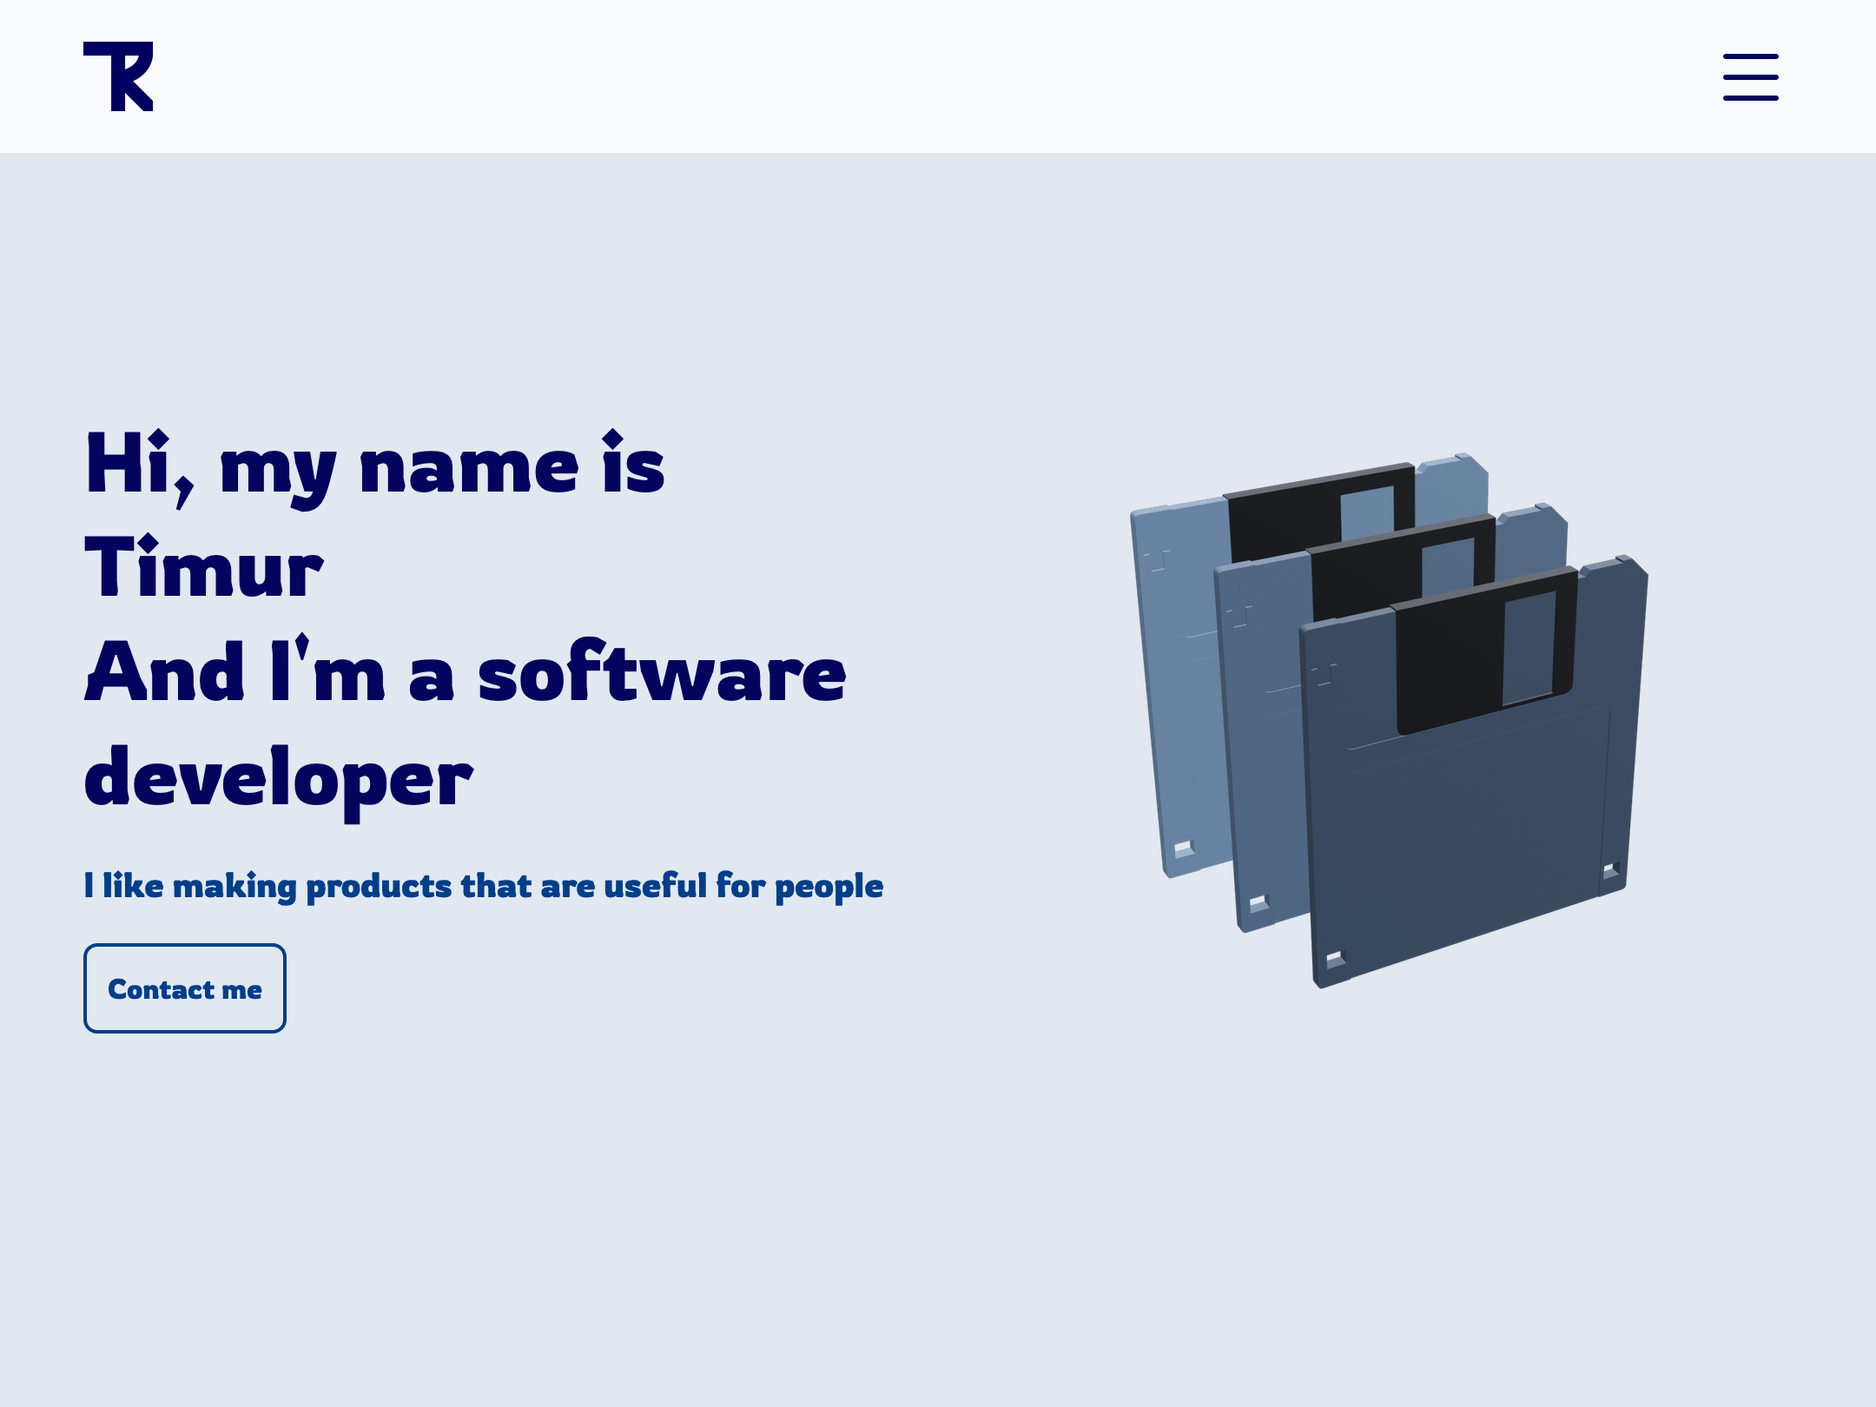
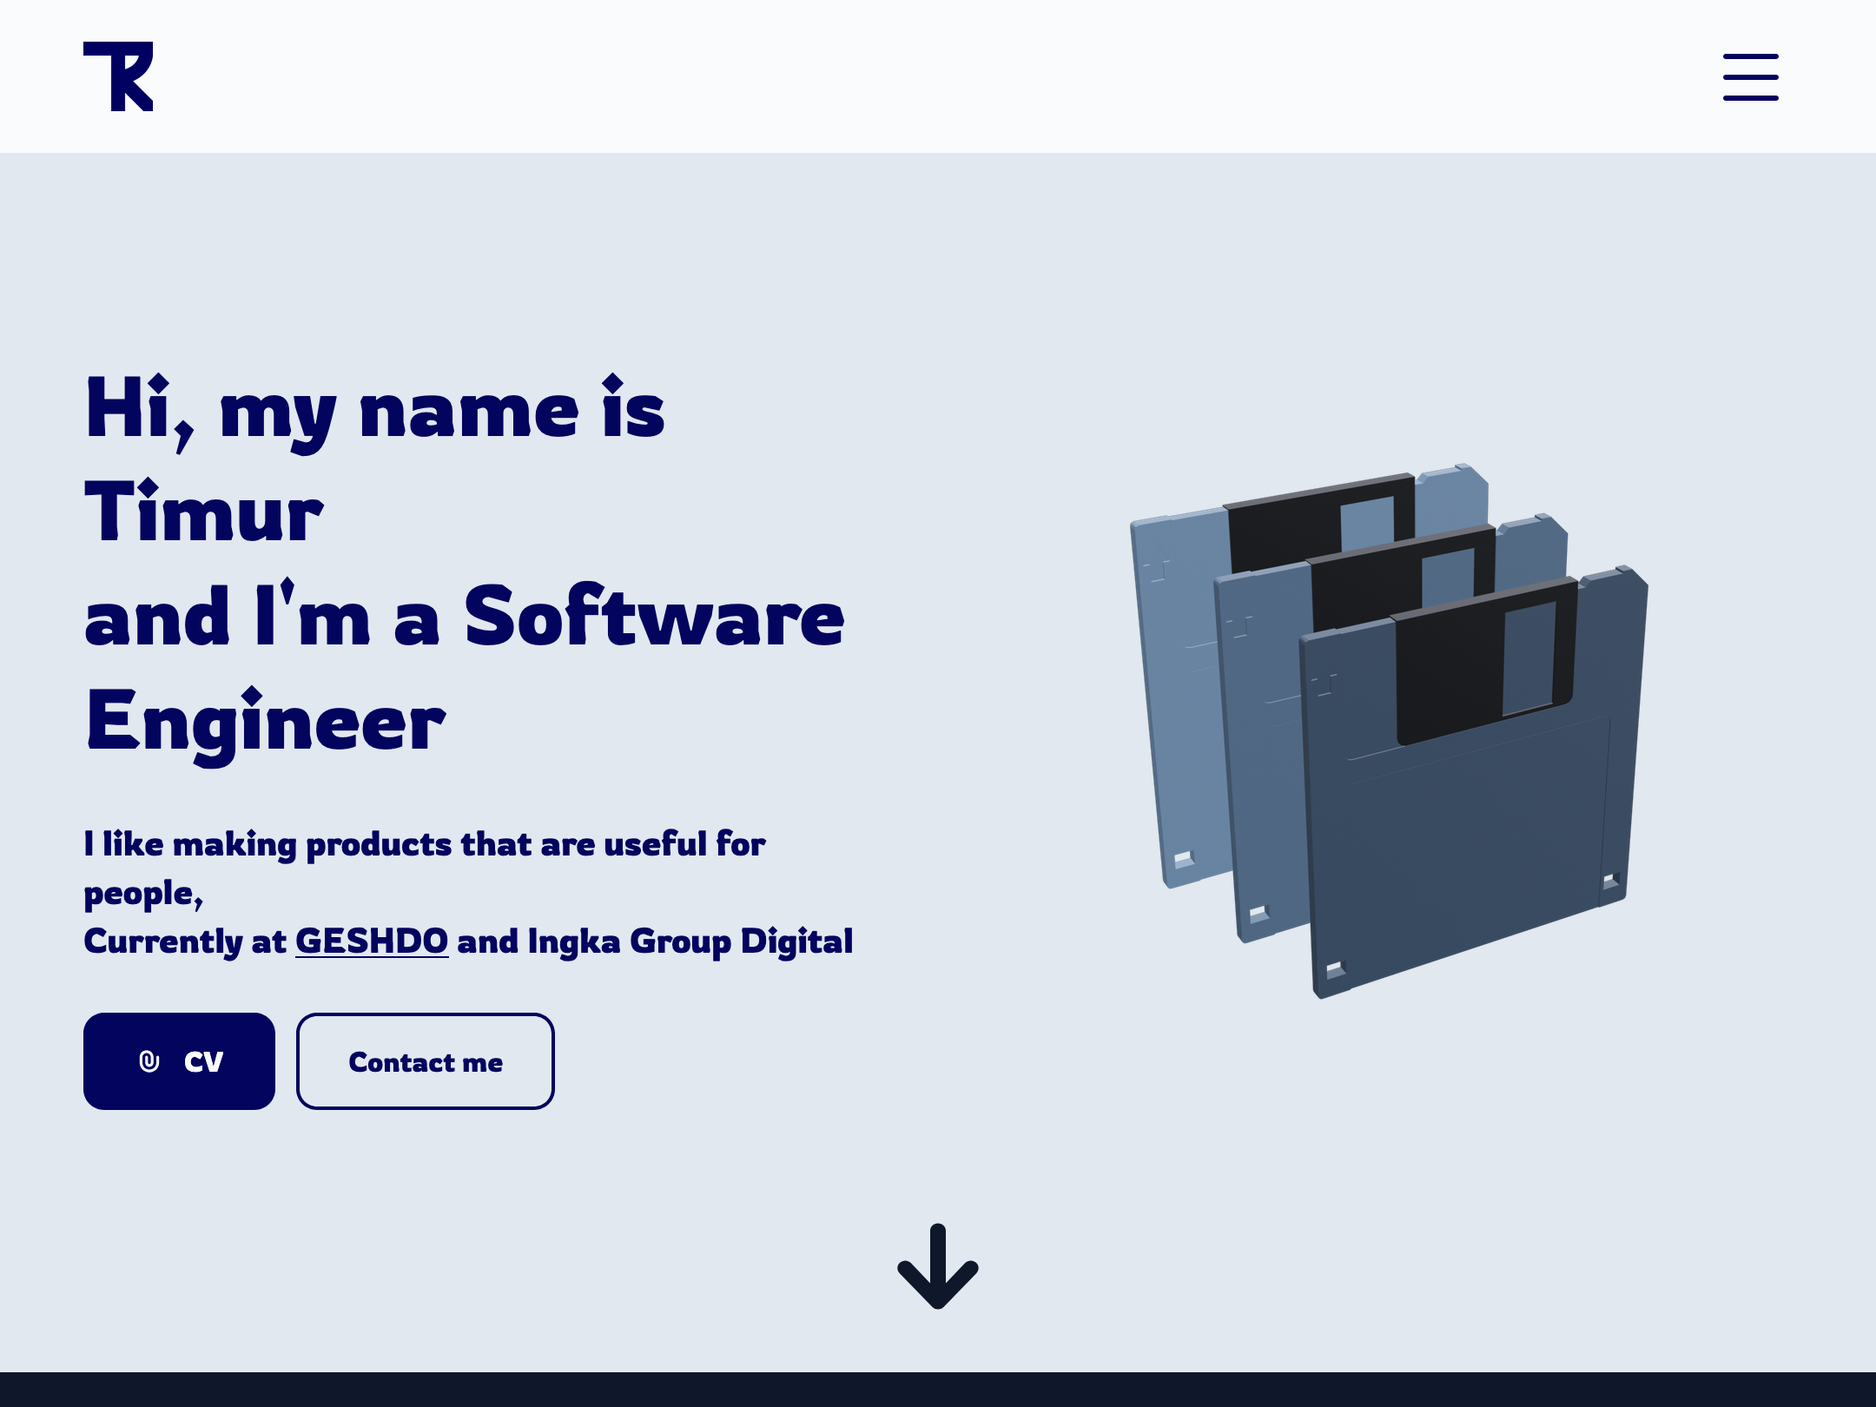
fix focus rings, other fixes

diff --git a/src/pages/Contact.jsx b/src/pages/Contact.jsx
@@ -8,46 +8,49 @@ const Contact = () => {
     const nameRef = useRef()
     const subjectRef = useRef()
     const messageRef = useRef()
-    const [formState, setFormState] = useState('')
+    const [formState, setFormState] = useState('init')
+    const isDisabled = formState === 'pending'
 
     const API_URL = import.meta.env.VITE_RELAY_URL ?? 'http://localhost/bot'
 
     const handleSubmit = (e) => {
         e.preventDefault()
-        setFormState('')
+        if (isDisabled) return
         const name = nameRef.current.value
         const subject = subjectRef.current.value
         const message = messageRef.current.value
 
-        if (name !== '' && subject !== '' && message !== '') {
-            const conn =
-                navigator.connection ||
-                navigator.mozConnection ||
-                navigator.webkitConnection
-            const meta = {
-                userAgent: navigator.userAgent,
-                language: `${navigator.language} (${navigator.languages?.join(
-                    ', '
-                )})`,
-                platform: navigator.platform,
-                screen: `${screen.width}x${screen.height} @ ${window.devicePixelRatio}x, ${screen.colorDepth}-bit`,
-                viewport: `${window.innerWidth}x${window.innerHeight}`,
-                timezone: Intl.DateTimeFormat().resolvedOptions().timeZone,
-                localTime: new Date().toLocaleString(),
-                connection: conn
-                    ? `${conn.effectiveType}, ~${conn.downlink} Mbps`
-                    : 'unknown',
-                pageUrl: window.location.href,
-                referrer: document.referrer || 'direct',
-                cookiesEnabled: navigator.cookieEnabled,
-                online: navigator.onLine,
-            }
+        if (name === '' || subject === '' || message === '') return
 
-            axios
-                .post(`${API_URL}/send`, { name, subject, message, meta })
-                .then(() => setFormState('sent'))
-                .catch(() => setFormState('error'))
+        setFormState('pending')
+
+        const conn =
+            navigator.connection ||
+            navigator.mozConnection ||
+            navigator.webkitConnection
+        const meta = {
+            userAgent: navigator.userAgent,
+            language: `${navigator.language} (${navigator.languages?.join(
+                ', '
+            )})`,
+            platform: navigator.platform,
+            screen: `${screen.width}x${screen.height} @ ${window.devicePixelRatio}x, ${screen.colorDepth}-bit`,
+            viewport: `${window.innerWidth}x${window.innerHeight}`,
+            timezone: Intl.DateTimeFormat().resolvedOptions().timeZone,
+            localTime: new Date().toLocaleString(),
+            connection: conn
+                ? `${conn.effectiveType}, ~${conn.downlink} Mbps`
+                : 'unknown',
+            pageUrl: window.location.href,
+            referrer: document.referrer || 'direct',
+            cookiesEnabled: navigator.cookieEnabled,
+            online: navigator.onLine,
         }
+
+        axios
+            .post(`${API_URL}/send`, { name, subject, message, meta })
+            .then(() => setFormState('sent'))
+            .catch(() => setFormState('error'))
     }
 
     return (
@@ -101,13 +104,22 @@ const Contact = () => {
                                 Sent
                             </p>
                         )}
-                        {formState === '' && (
+                        {formState !== 'sent' && (
                             <CTAButton
                                 title={
-                                    formState === 'error' ? 'Re-Send' : 'Send'
+                                    formState === 'init'
+                                        ? 'Send'
+                                        : formState === 'pending'
+                                        ? 'Sending'
+                                        : formState === 'error'
+                                        ? 'Resend'
+                                        : ''
                                 }
                                 type={'submit'}
-                                className={'!w-fit !h-12 px-7'}
+                                className={
+                                    '!w-fit !h-12 px-7 ring-offset-slate-300'
+                                }
+                                disabled={isDisabled}
                             />
                         )}
                     </div>

diff --git a/src/components/SkillList.jsx b/src/components/SkillList.jsx
@@ -18,25 +18,14 @@ const SkillList = ({ hoveredSkills = [] }) => {
                                 )
                                 return (
                                     <li
-                                        className="flex items-center gap-5 border-2 border-white rounded-full py-3 px-5 w-fit hover:scale-105 hover:cursor-default transition-all duration-150 group"
+                                        className="shadow-[0_0_20px_rgba(255,255,255,0.3)] hover:shadow-[0_0_25px_rgba(255,255,255,0.35)] flex items-center gap-5 border-2 border-white rounded-full py-3 px-5 w-fit hover:scale-105 hover:cursor-default transition-all duration-150 group"
                                         style={{
-                                            boxShadow: `0px 0px 20px rgba(255, 255, 255, 0.3)`,
-                                            transition:
-                                                'transform 150ms, box-shadow 150ms, opacity 150ms',
                                             opacity:
                                                 hoveredSkills.length === 0 ||
                                                 isHighlighted
                                                     ? '1'
                                                     : '0.1',
                                         }}
-                                        onMouseEnter={(e) =>
-                                            (e.currentTarget.style.boxShadow =
-                                                '0px 0px 25px rgba(255, 255, 255, 0.35)')
-                                        }
-                                        onMouseLeave={(e) =>
-                                            (e.currentTarget.style.boxShadow =
-                                                '0px 0px 20px rgba(255, 255, 255, 0.3)')
-                                        }
                                         key={key}
                                     >
                                         {skill.icon}
@@ -56,20 +45,7 @@ const SkillList = ({ hoveredSkills = [] }) => {
                             return (
                                 <li key={key}>
                                     <a
-                                        className="flex gap-5 border-2 border-white rounded-3xl py-3 px-5 w-full hover:scale-105 transition-all duration-150 group"
-                                        style={{
-                                            boxShadow: `0px 0px 20px rgba(255, 255, 255, 0.3)`,
-                                            transition:
-                                                'transform 150ms, box-shadow 150ms, opacity 150ms',
-                                        }}
-                                        onMouseEnter={(e) =>
-                                            (e.currentTarget.style.boxShadow =
-                                                '0px 0px 25px rgba(255, 255, 255, 0.35)')
-                                        }
-                                        onMouseLeave={(e) =>
-                                            (e.currentTarget.style.boxShadow =
-                                                '0px 0px 20px rgba(255, 255, 255, 0.3)')
-                                        }
+                                        className="shadow-[0_0_20px_rgba(255,255,255,0.3)] hover:shadow-[0_0_25px_rgba(255,255,255,0.35)] flex gap-5 border-2 border-white rounded-3xl py-3 px-5 w-full hover:scale-105 transition-all duration-150 group !ring-white !ring-offset-primary-900"
                                         href={cert.link}
                                         target="_blank"
                                     >

diff --git a/src/pages/Projects.jsx b/src/pages/Projects.jsx
@@ -5,11 +5,20 @@ import { projects, Role } from '../data'
 const Projects = () => {
     const [selectedRole, setSelectedRole] = useState(null)
 
+    const allRolesKeys = [null, ...Object.keys(Role)]
     const getFilteredProjects = (role) =>
         role
             ? projects.filter((proj) => proj.roles.includes(Role[role]))
             : projects
-    const getProjectCount = (role) => getFilteredProjects(role).length
+    const countPerRole = useMemo(() => {
+        return allRolesKeys.reduce(
+            (prev, role) => ({
+                ...prev,
+                [role]: getFilteredProjects(role).length,
+            }),
+            {}
+        )
+    }, [projects])
 
     useEffect(() => {
         const handleEvent = (e) => e.key === 'Escape' && setSelectedRole(null)
@@ -25,8 +34,10 @@ const Projects = () => {
             <div className="page-part grow">
                 <h2 className="text-5xl pb-7 text-left">Projects</h2>
                 <ul className="flex gap-3 mb-7">
-                    {[null, ...Object.keys(Role)]
-                        .sort((role) => -getProjectCount(role))
+                    {allRolesKeys
+                        .sort((role1, role2) =>
+                            countPerRole[role1] < countPerRole[role2] ? 1 : -1
+                        )
                         .map((key) => (
                             <li key={Role[key]}>
                                 <button
@@ -34,7 +45,7 @@ const Projects = () => {
                                         key === selectedRole
                                             ? 'bg-primary-900 text-white'
                                             : ''
-                                    } rounded-full py-3 px-5 w-fit hover:scale-105 hover:cursor-default transition-all duration-150`}
+                                    } rounded-full py-3 px-5 w-fit hover:scale-105 ease-in-out whitespace-nowrap overflow-hidden hover:cursor-default`}
                                     onClick={() =>
                                         setSelectedRole((prevRole) =>
                                             prevRole === key ? null : key
@@ -46,7 +57,7 @@ const Projects = () => {
                                             ? Role[key]
                                             : 'All'}
                                     </span>
-                                    <span>({getProjectCount(key)})</span>
+                                    <span>({countPerRole[key]})</span>
                                 </button>
                             </li>
                         ))}

diff --git a/src/components/CTAButton.jsx b/src/components/CTAButton.jsx
@@ -8,25 +8,38 @@ const CTAButton = ({
     style = 'primary',
     onClick,
     className,
-    type
+    type,
+    disabled = false,
 }) => {
     const Tag = href ? 'a' : 'button'
 
     const baseClasses =
         'flex items-center justify-center h-10 rounded-xl overflow-hidden px-4 gap-3 w-full border-2 border-primary-900 ' +
-        'transition-all duration-150 ease-in-out whitespace-nowrap focus:outline-none focus-visible:ring-2 focus-visible:ring-primary-900 focus-visible:ring-offset-2'
+        'transition-all duration-150 ease-in-out whitespace-nowrap'
 
     const styleClasses =
         style === 'primary'
             ? 'bg-primary-900 hover:scale-105 text-slate-50 '
             : 'text-primary-900 hover:text-slate-50 before:h-0 hover:before:h-full relative isolate before:w-full before:absolute before:left-0 before:bottom-0 before:-z-10 before:transition-all before:duration-150 before:bg-primary-900 bg-transparent'
 
+    const disabledClasses = disabled
+        ? '!bg-gray-500 !border-gray-500 cursor-not-allowed'
+        : ''
+
     return (
         <Tag
-            className={cn(baseClasses, styleClasses, className)}
+            className={cn(
+                baseClasses,
+                styleClasses,
+                disabledClasses,
+                className
+            )}
             href={href}
             target={href ? '_blank' : undefined}
-            onClick={onClick}
+            onClick={() => {
+                if (disabled) return
+                onClick()
+            }}
             type={!href && type ? type : undefined}
         >
             {icon && (

diff --git a/src/pages/Landing.jsx b/src/pages/Landing.jsx
@@ -27,7 +27,7 @@ const Landing = () => {
                             <a
                                 href="https://geshdo.com/cv/timur-ramazanov"
                                 target="_blank"
-                                className="underline"
+                                className="underline decoration-2 underline-offset-4 rounded-md ring-offset-slate-200"
                                 rel="norefererrer"
                             >
                                 GESHDO
@@ -39,13 +39,17 @@ const Landing = () => {
                                 icon={<HiPaperClip />}
                                 title={'CV'}
                                 href={"/Timur Ramazanov's CV.pdf"}
-                                className={'!h-14 !w-fit px-7'}
+                                className={
+                                    '!h-14 !w-fit px-7 ring-offset-slate-200'
+                                }
                             />
                             <CTAButton
                                 title={'Contact me'}
                                 onClick={() => navigate('contacts')}
                                 style="secondary"
-                                className={'!h-14 !w-fit px-7'}
+                                className={
+                                    '!h-14 !w-fit px-7 ring-offset-slate-200'
+                                }
                             />
                         </div>
                     </div>

diff --git a/src/components/Navbar.jsx b/src/components/Navbar.jsx
@@ -33,7 +33,7 @@ const Navbar = () => {
                     className="flex container mx-auto justify-between items-center p-5"
                     id="logo-icon"
                 >
-                    <a onClick={() => navigate("landing")}>
+                    <a onClick={() => navigate('landing')}>
                         <img
                             src={logo}
                             className="text-2xl w-10 h-10 text-primary-900 cursor-pointer"
@@ -52,6 +52,7 @@ const Navbar = () => {
                             color="#03045e"
                             toggled={open}
                             toggle={setOpen}
+                            className="rounded-md"
                         />
                     </span>
                 </div>
@@ -69,6 +70,7 @@ const Navbar = () => {
                         color="#03045e"
                         toggled={open}
                         toggle={setOpen}
+                        className="roudned-md"
                     />
                 </span>
                 {buttons.map((button, key) => (

diff --git a/src/components/LinksList.jsx b/src/components/LinksList.jsx
@@ -8,7 +8,7 @@ const LinksList = ({ className }) => {
                 <li key={key}>
                     <a
                         target="_blank"
-                        className="hover:scale-110 transition-all duration-150 scale-100 w-10 h-10 flex items-center justify-center rounded-full focus:outline-none focus-visible:ring-2 focus-visible:ring-primary-900 focus-visible:ring-offset-2"
+                        className="hover:scale-110 transition-all duration-150 scale-100 w-10 h-10 flex items-center justify-center rounded-full ring-offset-slate-300"
                         href={link.href}
                     >
                         <img src={link.icon} alt={link.alt} />

diff --git a/src/components/ProjectCard.jsx b/src/components/ProjectCard.jsx
@@ -84,7 +84,7 @@ const ProjectCard = (props) => {
             <a
                 href={publicUrl}
                 target="_blank"
-                className="rounded-xl border hover:scale-[1.01] transition-all duration-150 overflow-hidden h-fit focus:outline-none focus-visible:ring-2 focus-visible:ring-primary-900 focus-visible:ring-offset-2"
+                className="rounded-xl border hover:scale-[1.01] transition-all duration-150 overflow-hidden h-fit"
             >
                 <img src={image} className="" alt={name} />
             </a>

diff --git a/src/components/NavButton.jsx b/src/components/NavButton.jsx
@@ -23,7 +23,7 @@ const NavButton = ({ text, blockId, init, onClick }) => {
 
     return (
         <a
-            className="cursor-pointer text-2xl text-primary-900 flex items-center gap-2 text-center md:text-left rounded-lg focus:outline-none focus-visible:ring-2 focus-visible:ring-primary-900 focus-visible:ring-offset-2"
+            className="cursor-pointer text-2xl text-primary-900 flex items-center gap-2 text-center md:text-left rounded-lg"
             onClick={() => {
                 navigate(blockId)
                 onClick()

diff --git a/src/index.css b/src/index.css
@@ -13,6 +13,15 @@ body * {
     @apply box-border;
 }
 
+@layer components {
+    a,
+    button,
+    [role='button'],
+    .with-focus-ring {
+        @apply transition-[box-shadow,transform] duration-150 focus:outline-none ring-offset-0 focus-visible:ring-2 focus-visible:ring-primary-900 focus-visible:ring-offset-2;
+    }
+}
+
 .page-part {
     @apply container px-5 pt-32 pb-24 mx-auto;
 }
@@ -37,7 +46,8 @@ section {
 }
 
 @keyframes bounce {
-    0%, 100% {
+    0%,
+    100% {
         transform: translateY(0);
     }
     50% {

diff --git a/src/components/dialog/InnerDialog.jsx b/src/components/dialog/InnerDialog.jsx
@@ -71,7 +71,7 @@ export const InnerDialog = memo(({ data, close, className }) => {
 
                 <button
                     onClick={close}
-                    className="text-4xl p-1.5 ml-auto hover:scale-105 transition-transform"
+                    className="text-4xl p-1.5 ml-auto hover:scale-105 transition-[box-shadow,transform]"
                 >
                     <IoClose />
                 </button>
